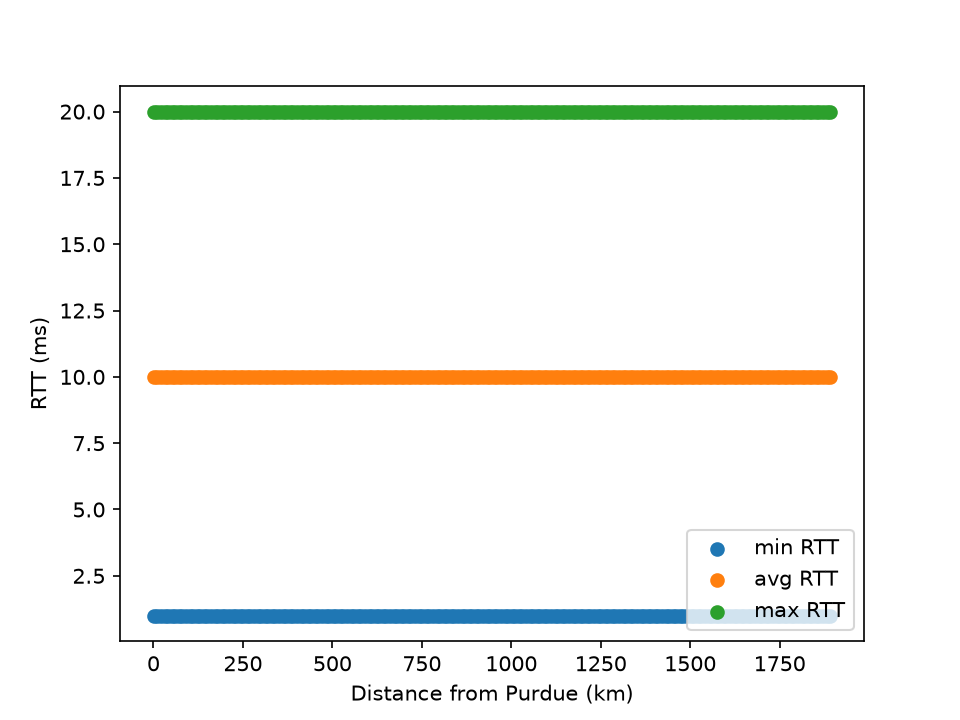
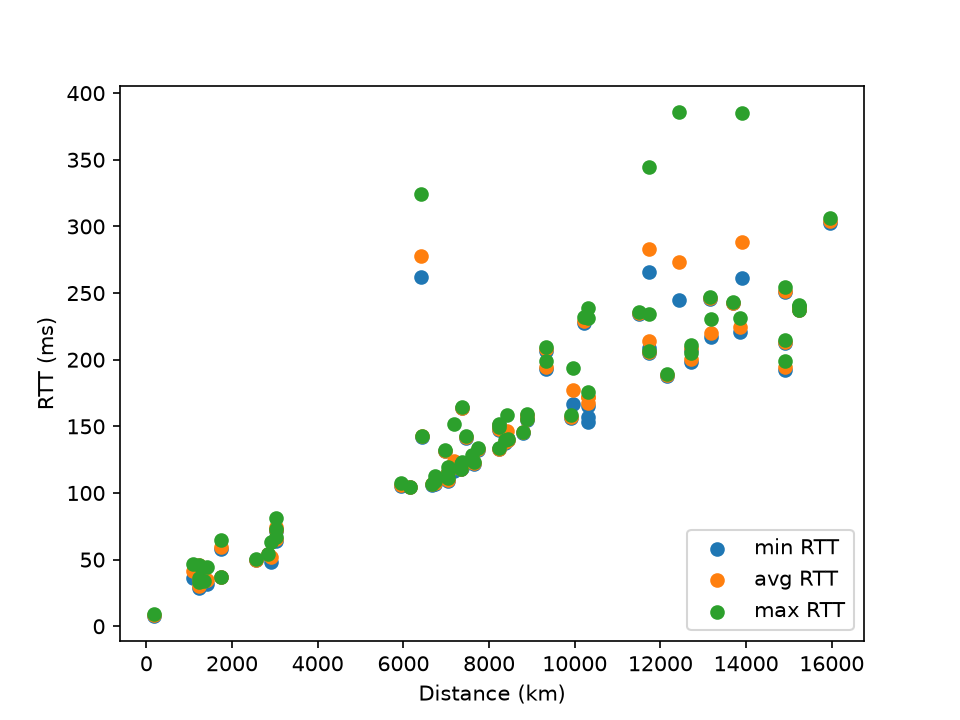
Update distance - rtt scatterplot

diff --git a/part_1.py b/part_1.py
@@ -124,7 +124,7 @@ def part_1(ips):
   plt.scatter(x, avg_times, label="avg RTT")
   plt.scatter(x, max_times, label="max RTT")
   plt.legend(loc='lower right')
-  plt.xlabel("Distance from Purdue (km)")
+  plt.xlabel("Distance (km)")
   plt.ylabel("RTT (ms)")
 
   path = "distance_rtt.png"
